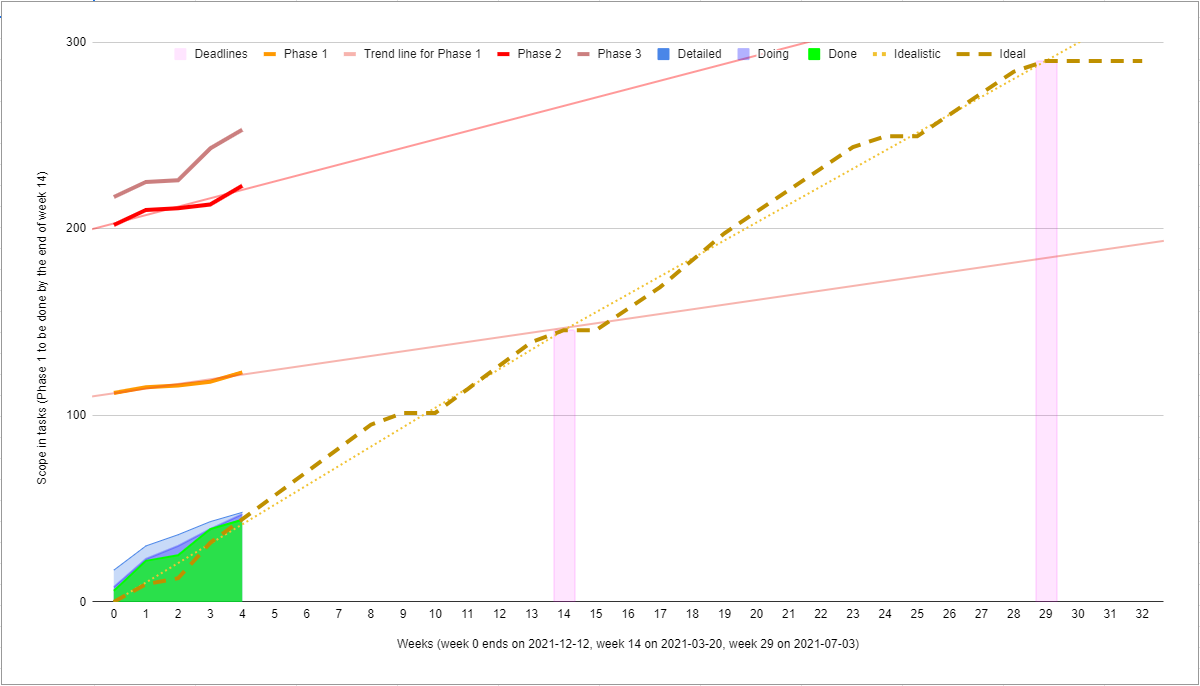
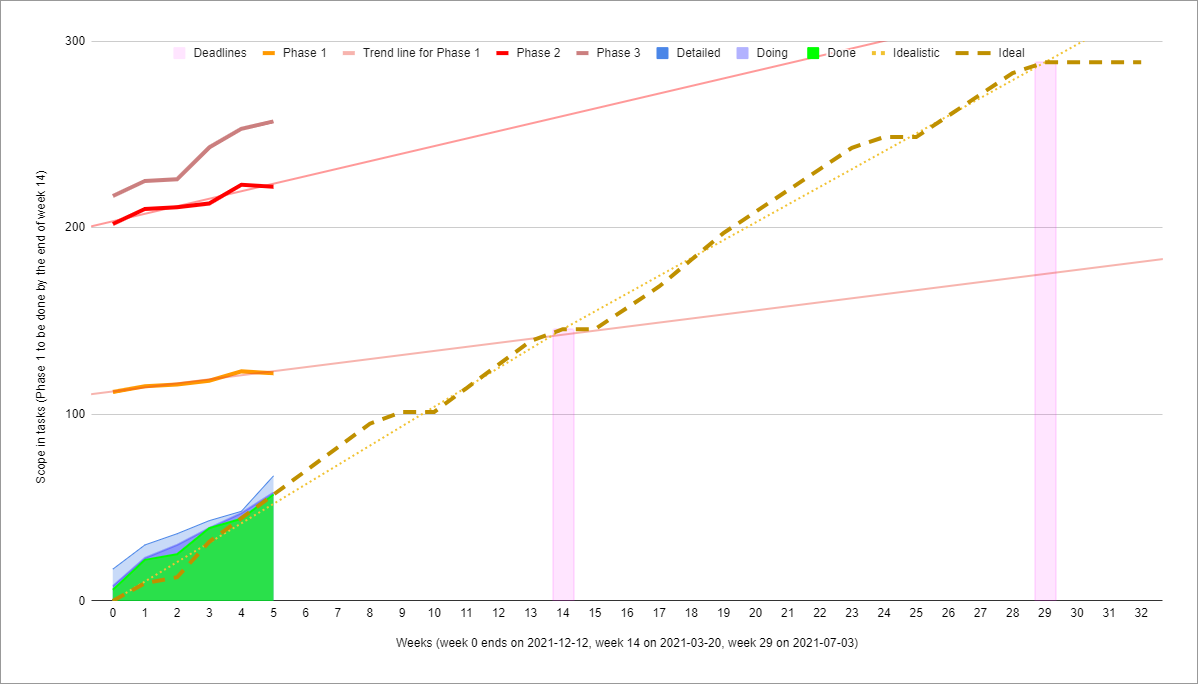
last week's update

diff --git a/docs/log.md b/docs/log.md
@@ -73,4 +73,21 @@ reduce burden further down the line, I have started a number of standalone packa
 * ALPS-PY
 * Callout
 * Django-Kinder-Settings
-* WSTL-PY
+* Polymedia
+
+## Week 5 - ending 2022-01-16
+
+*Working on the supporting packages*
+
+### Features completed: 
+
+* ALPS
+* Polymedia package
+
+To help with development and testing of the ideas I have developed
+* ALPS-PY - a package to create, parse and manage ALPS service descriptions
+* Callout - a way to modularise odis without dependencies
+* Diogi - a collection of functions to make my life easier
+* Django-Kinder-Settings - a more developer friendly settings for django
+* Polymedia - a client to communicate with hypermedia using ALPS 
+* Poly-CLI - a command line interface for Polymedia - for testing

diff --git a/docs/progress.md b/docs/progress.md
@@ -4,15 +4,13 @@ To monitor and control the progress of the project I'm using an approach based o
 
 [More details](#project-details) below the chart. 
 
-## Week 5 - 2022-01-10 - 2022-01-16
+## Week 6 - 2022-01-17 - 2022-01-23
 
 ![Progress](progress.png)
 
 ## Summary
 
-The development is going rather slowly, but steady progress is made daily. 
-A few problems with technical details of the implementation clearly resulted in less progress than I hoped for in week 4,
-but those have now been resolved. 
+The few technical problems from previous week have been resolved. 
 
 The 'scope creep' is almost exactly x1.3 as predicted so everything appears to be on track. 
 
